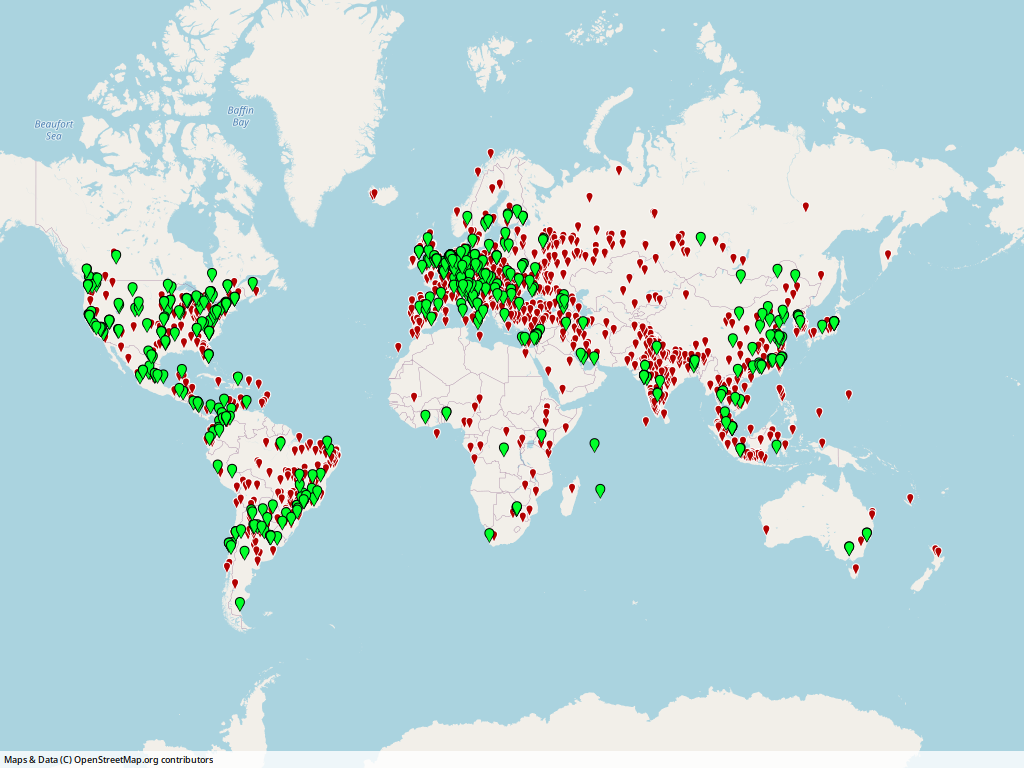
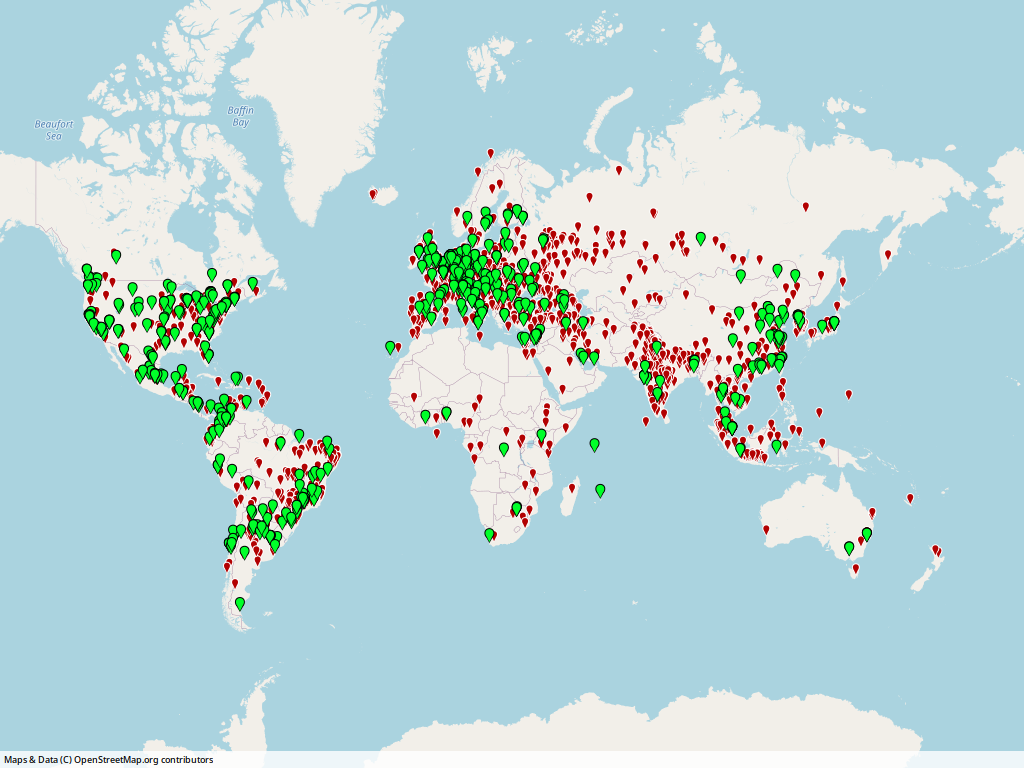
fix: query geolocalization pure SQL
deprecating ORM SQLalchemy

diff --git a/sql_alch.py b/sql_alch.py
@@ -1,6 +1,7 @@
 import os
 import time
 import subprocess
+from consultas.querys_sqlite import get_geoloc
 from iplocate import re, requests, token, filtro_ip_propia, selfpath, parser, log_usage
 from json import loads
 from datetime import datetime
@@ -468,10 +469,8 @@ def mapsgen():
     Llama a función maps_gen con estas listas de valores como argumentos.
     """
     try:
-        stmn = session.query(Registro.geoloc.distinct()).join('visitas').where(Visita.cod_html==200)
-        loc_200 = session.execute(stmn).all()
-        stmn = session.query(Registro.geoloc.distinct()).join('visitas').where(Visita.cod_html!=200)
-        loc_300 = session.execute(stmn).all()
+        loc_200 = get_geoloc(200)
+        loc_300 = get_geoloc(300)
         maps_gen(loc_200, loc_300) 
     except Exception as ex:
         print('Exception mapsgen: ', ex)

diff --git a/consultas/querys_sqlite.py b/consultas/querys_sqlite.py
@@ -9,6 +9,21 @@ console = Console()
 conn = sqlite3.connect(f'{selfpath}/../ipinfo.db')
 c = conn.cursor()
 
+# GeoLoc
+def get_geoloc(codigo):
+    if codigo == 200:
+        consulta = """
+            SELECT DISTINCT geoloc FROM registro WHERE ip in ( SELECT `ip` from visita WHERE cod_html=='200');
+                    """
+    else:
+        consulta = """
+            SELECT DISTINCT geoloc FROM registro WHERE ip in ( SELECT `ip` from visita WHERE cod_html!='200');
+                    """
+    c.execute(consulta)
+    resp = c.fetchall()
+    return resp
+
+
 # Detalle Visitas por pais
 def vistas_pais_detalle(pais, codigo=''):
     if codigo == '':

diff --git a/mapsgen.py b/mapsgen.py
@@ -41,6 +41,7 @@ def map300(geolocs):
 
 
 def maps_gen(locs_200, locs_300):
+    maps_thumbs(locs_200, locs_300)
     map200(locs_200)
     map300(locs_300)
     for loc in locs_300:
@@ -73,7 +74,7 @@ def maps_thumbs(locs_200, locs_300):
         lon = float(loc[0].split(',')[1])
         demo300 = staticmaps.create_latlng(lat,lon)
         cntxtdemo.add_object(staticmaps.Marker(demo300, color=staticmaps.parse_color('#b20101'), size=4))
-    
+
     for loc in locs_200:
         lat = float(loc[0].split(',')[0])
         lon = float(loc[0].split(',')[1])
